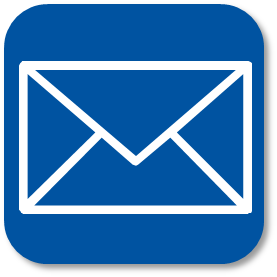
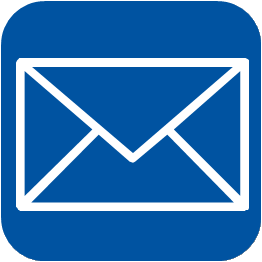
little tweaks, improved image.

Changed region(s): [[0.0, 0.0, 1.0, 1.0], [0.0305, 0.0305, 0.0916, 0.0916]]

diff --git a/Webclient/webClient.css b/Webclient/webClient.css
@@ -159,7 +159,7 @@
     display: inline-block;
     text-align: start;
     padding: 7px 10px 0px 10px;
-    height: 150px;
+    height: 140px;
     overflow: hidden;
     margin: 10px 20px -10px 20px; }
     .footer .alignment .list-unstyled {
@@ -173,17 +173,17 @@
   .footer .footerwrapper {
     text-align: center; }
   .footer .footerimg {
-    margin-top: 10px;
-    height: 80px;
-    width: 80px; }
+    margin-top: 15px;
+    height: 70px;
+    width: 70px; }
   .footer .footerpower {
     text-align: center;
     margin-top: 15px;
     color: #999; }
   .footer .mediabutton {
     opacity: 0.8;
-    width: 35px;
-    height: 35px;
+    width: 30px;
+    height: 30px;
     margin: 0 5px 0 5px; }
   .footer .mediabutton:hover {
     opacity: 1; }

diff --git a/Webclient/baseComponents/footer/footer.scss b/Webclient/baseComponents/footer/footer.scss
@@ -14,7 +14,7 @@
 		display: inline-block;
 		text-align: start;
 		padding: 7px 10px 0px 10px;
-		height: 150px;
+		height: 140px;
 		overflow: hidden;
 		margin: 10px 20px -10px 20px;
                 
@@ -34,9 +34,9 @@
 		text-align: center;       
 	}
 	.footerimg {
-                margin-top: 10px;
-		height: 80px;
-		width:  80px;
+                margin-top: 15px;
+		height: 70px;
+		width:  70px;
 	}
 	.footerpower {
 		text-align: center;
@@ -45,8 +45,8 @@
 	}
         .mediabutton {
             opacity: 0.8;
-            width: 35px; 
-            height: 35px;
+            width: 30px; 
+            height: 30px;
             margin: 0 5px 0 5px;
         }
         .mediabutton:hover {

diff --git a/Webclient/baseComponents/footer/footer.php b/Webclient/baseComponents/footer/footer.php
@@ -1,5 +1,5 @@
 <div id="footerheight" class="footer">
-    <div class="container">
+    <div class="footerwrapper">
             <div class="alignment">
                 <h4>Algemeen</h4>
                 <ul class="list-unstyled">
@@ -22,7 +22,7 @@
                         <img src="<?php echo $img. 'fbicon.png';?>" class="mediabutton" />
                     </div>
                     <div style="display: inline-block">
-                        <img src="<?php echo $img. 'email.png';?>" class="mediabutton" />
+                        <img src="<?php echo $img. 'email0.png';?>" class="mediabutton" />
                     </div>
                 </div>
                 <div class="footerwrapper">
